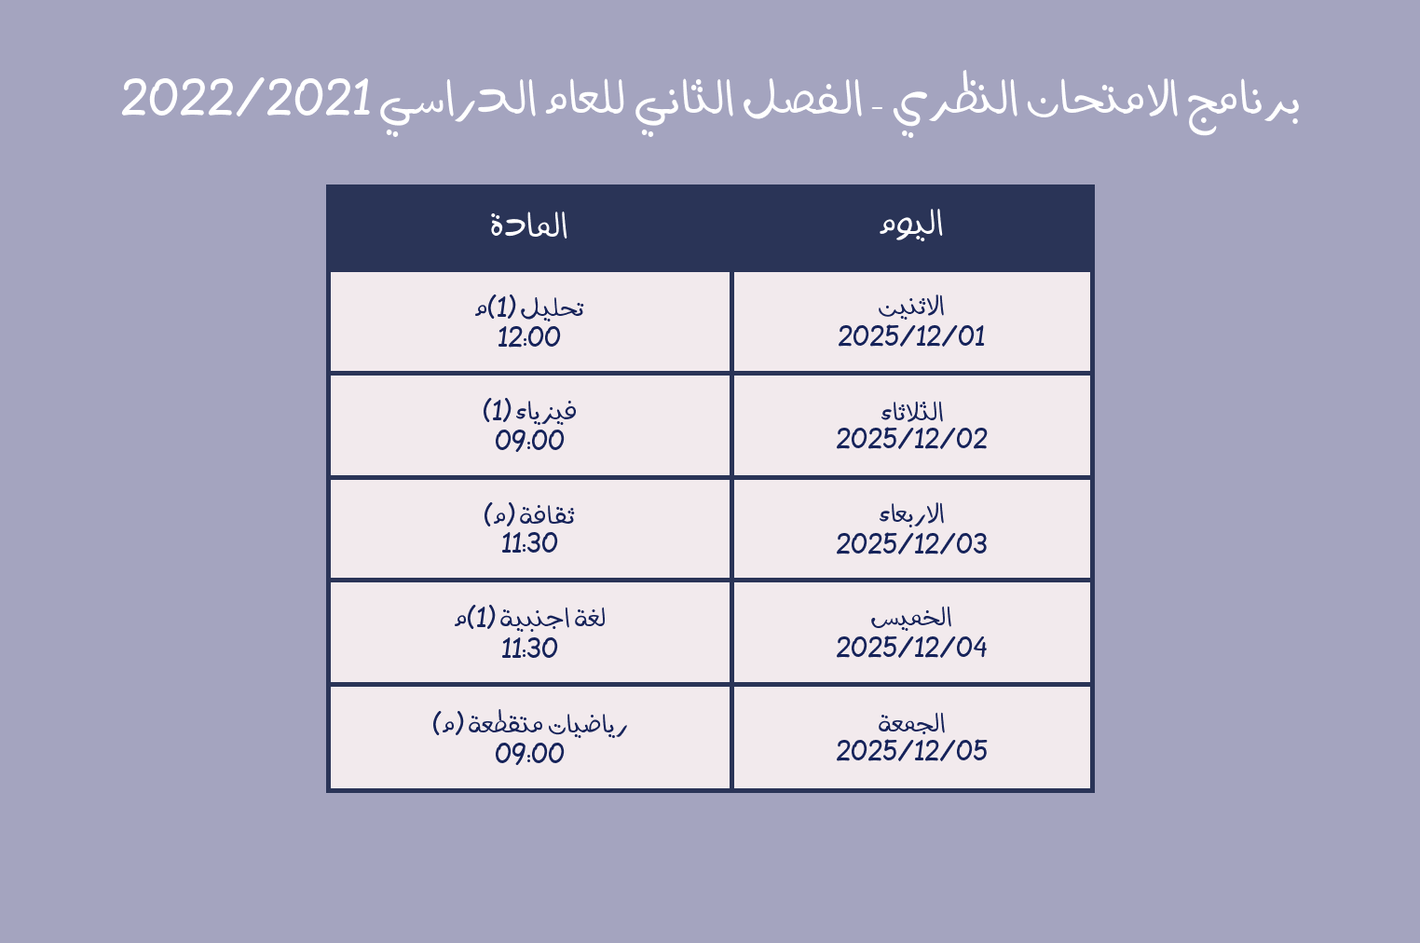
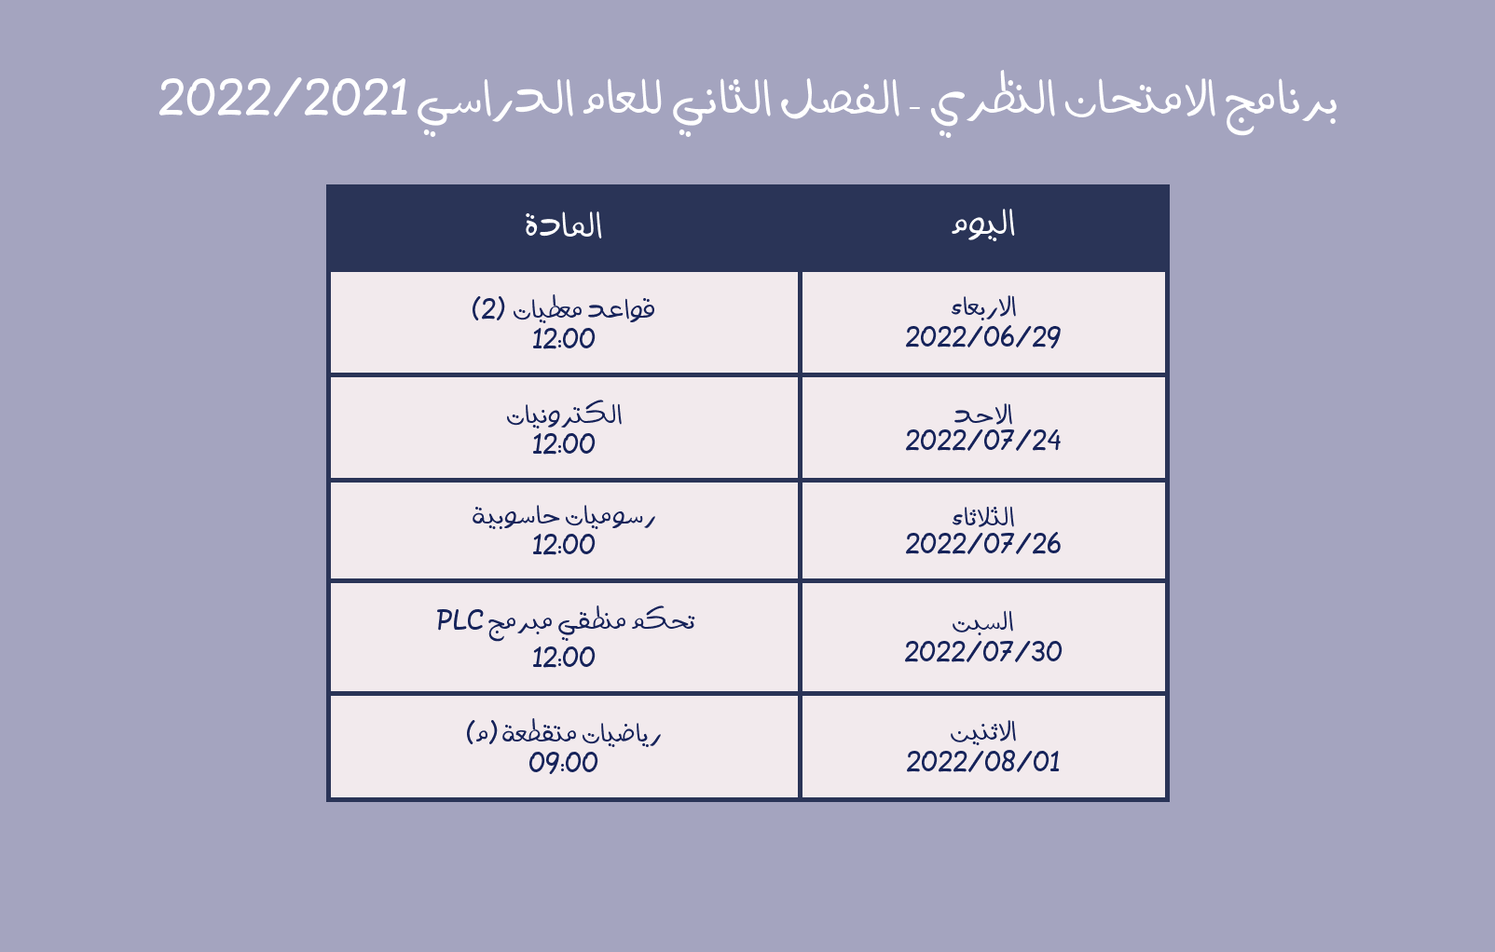
main

diff --git a/structure/schedule.php b/structure/schedule.php
@@ -1,96 +1,111 @@
 <?php
 
-$data[]=array("name2"=>"تحليل (1)م","name"=>"تحليل (1)م", "time"=>3, "year"=>1,"date"=>"2022/1/16") ;
-$data[]=array("name2"=>"فيزياء (1)","name"=>"فيزياء (1)", "time"=>1, "year"=>1,"date"=>"2022/1/20") ;
-$data[]=array("name2"=>"ثقافة (م)","name"=>"ثقافة (م)", "time"=>2, "year"=>1,"date"=>"2022/2/1");
-$data[]=array("name2"=>"لغة اجنبية (1)م","name"=>"لغة اجنبية (1)م", "time"=>2, "year"=>1,"date"=>"2022/2/8");
-$data[]=array("name2"=>"رياضيات متقطعة (م)","name"=>"رياضيات متقطعة (م)", "time"=>1, "year"=>1,"date"=>"2022/2/13");
-$data[]=array("name2"=>"برمجة (1)م","name"=>"برمجة (1)م", "time"=>1, "year"=>1,"date"=>"2022/2/20");
-$data[]=array("name2"=>"مبادئ عمل الحواسيب (م)","name"=>"مبادئ عمل الحواسيب (م)", "time"=>1, "year"=>1,"date"=>"2022/2/24");
-$data[]=array("name2"=>"فيزياء (2)م","name"=>"فيزياء (2)م", "time"=>1, "year"=>1,"date"=>"2022/1/18") ;
-$data[]=array("name2"=>"جبر خطي","name"=>"جبر خطي", "time"=>1, "year"=>1,"date"=>"2022/1/31");
-$data[]=array("name2"=>"دارات كهربائية","name"=>"دارات كهربائية", "time"=>1, "year"=>1,"date"=>"2022/2/6");
-$data[]=array("name2"=>"تحليل (2)م","name"=>"تحليل (2)م", "time"=>1, "year"=>1,"date"=>"2022/2/9");
-$data[]=array("name2"=>"لغة عربية","name"=>"لغة عربية", "time"=>1, "year"=>1,"date"=>"2022/2/14");
-$data[]=array("name2"=>"لغة اجنبية (2)م","name"=>"لغة اجنبية (2)م", "time"=>2, "year"=>1,"date"=>"2022/2/15");
-$data[]=array("name2"=>"برمجة (2)","name"=>"برمجة (2)", "time"=>1, "year"=>1,"date"=>"2022/2/22");
-
-$data[]=array("name2"=>"احتمالات (م)","name"=>"احتمالات (م)", "time"=>3, "year"=>2,"date"=>"2022/1/17") ;
-$data[]=array("name2"=>"تحليل عددي (1)","name"=>"تحليل عددي (1)", "time"=>3, "year"=>2,"date"=>"2022/1/30");
-$data[]=array("name2"=>"برمجة رياضية","name"=>"برمجة رياضية", "time"=>3, "year"=>2,"date"=>"2022/2/3");
-$data[]=array("name2"=>"برمجة (3)","name"=>"برمجة (3)", "time"=>3, "year"=>2,"date"=>"2022/2/10");
-$data[]=array("name2"=>"الكترونيات","name"=>"الكترونيات", "time"=>3, "year"=>2,"date"=>"2022/2/17");
-$data[]=array("name2"=>"لغة اجنبية (3)م","name"=>"لغة اجنبية (3)م", "time"=>3, "year"=>2,"date"=>"2022/2/19");
-$data[]=array("name2"=>"تحليل (3)م","name"=>"تحليل (3)م", "time"=>3, "year"=>2,"date"=>"2022/2/24");
-$data[]=array("name2"=>"لغة اجنبية (4)م","name"=>"لغة اجنبية (4)م", "time"=>3, "year"=>2,"date"=>"2022/1/18") ;
-$data[]=array("name2"=>"تحليل (4)م","name"=>"تحليل (4)م", "time"=>3, "year"=>2,"date"=>"2022/1/19") ;
-$data[]=array("name2"=>"خوارزميات (1)","name"=>"خوارزميات (1)", "time"=>4, "year"=>2,"date"=>"2022/2/1");
-$data[]=array("name2"=>"تحليل عددي (2)","name"=>"تحليل عددي (2)", "time"=>3, "year"=>2,"date"=>"2022/2/6");
-$data[]=array("name2"=>"نظم ودارات منطقية","name"=>"نظم ودارات منطقية", "time"=>3, "year"=>2,"date"=>"2022/2/12");
-$data[]=array("name2"=>"مهارات تواصل (م)", "name"=>"مهارات تواصل (م)", "time"=>3, "year"=>2,"date"=>"2022/2/13");
-$data[]=array("name2"=>"احصاء (م)","name"=>"احصاء (م)", "time"=>3, "year"=>2,"date"=>"2022/2/16");
-
-$data[]=array("name2"=>"خوارزميات (2)","name"=>"خوارزميات (2)", "time"=>1, "year"=>3,"date"=>"2022/1/16") ;
-$data[]=array("name2"=>"معالج مصغر","name"=>"معالج مصغر", "time"=>1, "year"=>3,"date"=>"2022/1/30");
-$data[]=array("name2"=>"معالجة اشارة","name"=>"معالجة اشارة", "time"=>1, "year"=>3,"date"=>"2022/2/3");
-$data[]=array("name2"=>"قواعد معطيات  (1)","name"=>"قواعد معطيات  (1)", "time"=>1, "year"=>3,"date"=>"2022/2/8");
-$data[]=array("name2"=>"رسوميات حاسوبية","name"=>"رسوميات حاسوبية", "time"=>1, "year"=>3,"date"=>"2022/2/14");
-$data[]=array("name2"=>"نظرية معلومات","name"=>"نظرية معلومات", "time"=>1, "year"=>3,"date"=>"2022/2/23");
-$data[]=array("name2"=>"نظرية المخططات","name"=>"نظرية المخططات", "time"=>3, "year"=>3,"date"=>"2022/2/20");
-$data[]=array("name2"=>"شبكات حاسوبية","name"=>"شبكات حاسوبية", "time"=>3, "year"=>3,"date"=>"2022/1/20") ;
-$data[]=array("name2"=>"بنية وتنظيم الحاسب (1)","name"=>"بنية وتنظيم الحاسب (1)", "time"=>1, "year"=>3,"date"=>"2022/2/1");
-$data[]=array("name2"=>"هندسة برمجيات (1)","name"=>"هندسة برمجيات (1)", "time"=>1, "year"=>3,"date"=>"2022/2/5");
-$data[]=array("name2"=>"اتصالات تشابهية ورقمية","name"=>"اتصالات تشابهية ورقمية", "time"=>1, "year"=>3,"date"=>"2022/2/7");
-$data[]=array("name2"=>"لغات صورية","name"=>"لغات صورية", "time"=>3, "year"=>3,"date"=>"2022/2/13");
-$data[]=array("name2"=>"مبادئ الذكاء الصنعي","name"=>"مبادئ الذكاء الصنعي", "time"=>1, "year"=>3,"date"=>"2022/2/16");
-$data[]=array("name2"=>"خوارزميات (3)","name"=>"خوارزميات (3)", "time"=>3, "year"=>3,"date"=>"2022/2/21");
-
-$data[]=array("name2"=>"نظم وسائط متعددة", "name"=>"نظم وسائط متعددة", "time"=>3, "year"=>4,"date"=>"2022/1/18") ;
-$data[]=array("name2"=>"تسويق وادارة مشاريع (م)","name"=>"تسويق وادارة مشاريع (م)", "time"=>3, "year"=>4,"date"=>"2022/1/31");
-$data[]=array("name2"=>"روبوتية","name"=>"روبوتية", "time"=>4, "year"=>4,"date"=>"2022/2/1");
-$data[]=array("name2"=>"بحوث عمليات","name"=>"بحوث عمليات", "time"=>3, "year"=>4,"date"=>"2022/2/7");
-$data[]=array("name2"=>"هندسة برمجيات (2)","name"=>"هندسة برمجيات (2)", "time"=>3, "year"=>4,"date"=>"2022/2/8");
-$data[]=array("name2"=>"نظم تشغيل (2)","name"=>"نظم تشغيل (2)", "time"=>3, "year"=>4,"date"=>"2022/2/13");
-$data[]=array("name2"=>"شبكات عصبونية","name"=>"شبكات عصبونية", "time"=>1, "year"=>4,"date"=>"2022/2/17");
-$data[]=array("name2"=>"أمن المعلومات","name"=>"أمن المعلومات", "time"=>1, "year"=>4,"date"=>"2022/2/21");
-
-$data[]=array("name2"=>"نظم تشغيل (1)","name"=>"نظم تشغيل (1)", "time"=>1, "year"=>4,"date"=>"2022/1/17") ;
-$data[]=array("name2"=>"بنية وتنظيم الحاسب (2)","name"=>"بنية وتنظيم الحاسب (2)", "time"=>3, "year"=>4,"date"=>"2022/1/22") ;
-$data[]=array("name2"=>"نظم رقمية مبرمجة","name"=>"نظم رقمية مبرمجة", "time"=>3, "year"=>4,"date"=>"2022/2/2");
-$data[]=array("name2"=>"تصميم مترجمات","name"=>"تصميم مترجمات", "time"=>1, "year"=>4,"date"=>"2022/2/10");
-$data[]=array("name2"=>"برمجة منطقية","name"=>"برمجة منطقية", "time"=>1, "year"=>4,"date"=>"2022/2/15");
-$data[]=array("name2"=>"قواعد معطيات  (2)","name"=>"قواعد معطيات  (2)", "time"=>1, "year"=>4,"date"=>"2022/2/15");
-$data[]=array("name2"=>"شبكات حاسوبية متقدمة","name"=>"شبكات حاسوبية متقدمة", "time"=>1, "year"=>4,"date"=>"2022/2/15");
-$data[]=array("name2"=>"نظرية الارتال","name"=>"نظرية الارتال", "time"=>4, "year"=>4,"date"=>"2022/2/24");
-$data[]=array("name2"=>"برمجة تفرعية","name"=>"برمجة تفرعية", "time"=>1, "year"=>4,"date"=>"2022/2/19");
+// سنة أولى فصل أول 
+$data[]=array("name2"=>"تحليل (1)م","name"=>"تحليل (1)م", "time"=>1, "year"=>1,"date"=>"2022/7/23") ;
+$data[]=array("name2"=>"فيزياء (1)","name"=>"فيزياء (1)", "time"=>1, "year"=>1,"date"=>"2022/7/18") ;
+$data[]=array("name2"=>"ثقافة (م)","name"=>"ثقافة (م)", "time"=>2, "year"=>1,"date"=>"2022/7/5");
+$data[]=array("name2"=>"لغة اجنبية (1)م","name"=>"لغة اجنبية (1)م", "time"=>2, "year"=>1,"date"=>"2022/6/28");
+$data[]=array("name2"=>"رياضيات متقطعة (م)","name"=>"رياضيات متقطعة (م)", "time"=>1, "year"=>1,"date"=>"2022/8/1");
+$data[]=array("name2"=>"برمجة (1)م","name"=>"برمجة (1)م", "time"=>1, "year"=>1,"date"=>"2022/7/6");
+$data[]=array("name2"=>"مبادئ عمل الحواسيب (م)","name"=>"مبادئ عمل الحواسيب (م)", "time"=>1, "year"=>1,"date"=>"2022/7/2");
+// سنة أولى فصل ثاني 
+$data[]=array("name2"=>"فيزياء (2)م","name"=>"فيزياء (2)م", "time"=>1, "year"=>1,"date"=>"2022/7/3") ;
+$data[]=array("name2"=>"جبر خطي","name"=>"جبر خطي", "time"=>1, "year"=>1,"date"=>"2022/8/4");
+$data[]=array("name2"=>"دارات كهربائية","name"=>"دارات كهربائية", "time"=>1, "year"=>1,"date"=>"2022/7/26");
+$data[]=array("name2"=>"تحليل (2)م","name"=>"تحليل (2)م", "time"=>1, "year"=>1,"date"=>"2022/6/26");
+$data[]=array("name2"=>"لغة عربية","name"=>"لغة عربية", "time"=>1, "year"=>1,"date"=>"2022/7/31");
+$data[]=array("name2"=>"لغة اجنبية (2)م","name"=>"لغة اجنبية (2)م", "time"=>2, "year"=>1,"date"=>"2022/7/19");
+$data[]=array("name2"=>"برمجة (2)","name"=>"برمجة (2)", "time"=>3, "year"=>1,"date"=>"2022/7/16");
 
 
-$data[]=array("name2"=>"شبكات لاسلكية","name"=>"شبكات لاسلكية", "time"=>3, "year"=>5,"date"=>"2022/1/20") ;
-$data[]=array("name2"=>"ادارة نظم انتاجية","name"=>"ادارة نظم انتاجية", "time"=>1, "year"=>5,"date"=>"2022/2/1");
-$data[]=array("name2"=>"معالجة لغات طبيعية","name"=>"معالجة لغات طبيعية", "time"=>1, "year"=>5,"date"=>"2022/2/8");
-$data[]=array("name2"=>"نظم الزمن الحقيقي","name"=>"نظم الزمن الحقيقي", "time"=>3, "year"=>5,"date"=>"2022/2/12");
-$data[]=array("name2"=>"تنقيب المعطيات","name"=>"تنقيب المعطيات", "time"=>3, "year"=>5,"date"=>"2022/2/16");
+// سنة ثانية فصل أول 
+$data[]=array("name2"=>"احتمالات (م)","name"=>"احتمالات (م)", "time"=>3, "year"=>2,"date"=>"2022/7/4") ;
+$data[]=array("name2"=>"تحليل عددي (1)","name"=>"تحليل عددي (1)", "time"=>1, "year"=>2,"date"=>"2022/7/25");
+$data[]=array("name2"=>"برمجة رياضية","name"=>"برمجة رياضية", "time"=>1, "year"=>2,"date"=>"2022/7/21");
+$data[]=array("name2"=>"برمجة (3)","name"=>"برمجة (3)", "time"=>1, "year"=>2,"date"=>"2022/7/30");
+$data[]=array("name2"=>"الكترونيات","name"=>"الكترونيات", "time"=>3, "year"=>2,"date"=>"2022/7/24");
+$data[]=array("name2"=>"لغة اجنبية (3)م","name"=>"لغة اجنبية (3)م", "time"=>1, "year"=>2,"date"=>"2022/6/28");
+$data[]=array("name2"=>"تحليل (3)م","name"=>"تحليل (3)م", "time"=>1, "year"=>2,"date"=>"2022/7/19");
+// سنة ثانية فصل ثاني
+$data[]=array("name2"=>"لغة اجنبية (4)م","name"=>"لغة اجنبية (4)م", "time"=>1, "year"=>2,"date"=>"2022/6/30") ;
+$data[]=array("name2"=>"تحليل (4)م","name"=>"تحليل (4)م", "time"=>3, "year"=>2,"date"=>"2022/7/17") ;
+$data[]=array("name2"=>"خوارزميات (1)","name"=>"خوارزميات (1)", "time"=>3, "year"=>2,"date"=>"2022/6/27");
+$data[]=array("name2"=>"تحليل عددي (2)","name"=>"تحليل عددي (2)", "time"=>3, "year"=>2,"date"=>"2022/8/1");
+$data[]=array("name2"=>"نظم ودارات منطقية","name"=>"نظم ودارات منطقية", "time"=>3, "year"=>2,"date"=>"2022/7/27");
+$data[]=array("name2"=>"مهارات تواصل (م)", "name"=>"مهارات تواصل (م)", "time"=>5, "year"=>2,"date"=>"2022/8/4");
+$data[]=array("name2"=>"احصاء (م)","name"=>"احصاء (م)", "time"=>3, "year"=>2,"date"=>"2022/7/6");
 
-$data[]=array("name2"=>"نظم موزعة","name"=>"نظم موزعة", "time"=>4, "year"=>5,"date"=>"2022/1/16") ;
-$data[]=array("name2"=>"نظم خبيرة","name"=>"نظم خبيرة", "time"=>4, "year"=>5,"date"=>"2022/1/16") ;
-$data[]=array("name2"=>"نمذجة ومحاكاة","name"=>"نمذجة ومحاكاة", "time"=>3, "year"=>5,"date"=>"2022/1/30");
-$data[]=array("name2"=>"تحكم منطقي مبرمج PLC","name"=>"تحكم منطقي مبرمج PLC", "time"=>3, "year"=>5,"date"=>"2022/2/5");
-$data[]=array("name2"=>"جودة ووثوقية","name"=>"جودة ووثوقية", "time"=>3, "year"=>5,"date"=>"2022/2/14");
-$data[]=array("name2"=>"أمن الشبكات","name"=>"أمن الشبكات", "time"=>3, "year"=>5,"date"=>"2022/2/23");
-$data[]=array("name2"=>"رؤية حاسوبية","name"=>"رؤية حاسوبية", "time"=>3, "year"=>5,"date"=>"2022/2/23");
-$data[]=array("name2"=>"هندسة برمجيات (3)","name"=>"هندسة برمجيات (3)", "time"=>3, "year"=>5,"date"=>"2022/2/23");
+
+// سنة ثالثة فصل أول
+$data[]=array("name2"=>"خوارزميات (2)","name"=>"خوارزميات (2)", "time"=>3, "year"=>3,"date"=>"2022/7/18");
+$data[]=array("name2"=>"معالج مصغر","name"=>"معالج مصغر", "time"=>1, "year"=>3,"date"=>"2022/8/1");
+$data[]=array("name2"=>"معالجة اشارة","name"=>"معالجة اشارة", "time"=>1, "year"=>3,"date"=>"2022/7/2");
+$data[]=array("name2"=>"قواعد معطيات  (1)","name"=>"قواعد معطيات  (1)", "time"=>1, "year"=>3,"date"=>"2022/7/4");
+$data[]=array("name2"=>"رسوميات حاسوبية","name"=>"رسوميات حاسوبية", "time"=>3, "year"=>3,"date"=>"2022/7/26");
+$data[]=array("name2"=>"نظرية معلومات","name"=>"نظرية معلومات", "time"=>2, "year"=>3,"date"=>"2022/6/28");
+$data[]=array("name2"=>"نظرية المخططات","name"=>"نظرية المخططات", "time"=>3, "year"=>3,"date"=>"2022/7/20");
+// سنة ثالثة فصل ثاني
+$data[]=array("name2"=>"شبكات حاسوبية","name"=>"شبكات حاسوبية", "time"=>3, "year"=>3,"date"=>"2022/6/26");
+$data[]=array("name2"=>"بنية وتنظيم الحاسب (1)","name"=>"بنية وتنظيم الحاسب (1)", "time"=>3, "year"=>3,"date"=>"2022/6/30");
+$data[]=array("name2"=>"هندسة برمجيات (1)","name"=>"هندسة برمجيات (1)", "time"=>1, "year"=>3,"date"=>"2022/8/3");
+$data[]=array("name2"=>"اتصالات تشابهية ورقمية","name"=>"اتصالات تشابهية ورقمية", "time"=>1, "year"=>3,"date"=>"2022/7/16");
+$data[]=array("name2"=>"لغات صورية","name"=>"لغات صورية", "time"=>3, "year"=>3,"date"=>"2022/7/28");
+$data[]=array("name2"=>"مبادئ الذكاء الصنعي","name"=>"مبادئ الذكاء الصنعي", "time"=>3, "year"=>3,"date"=>"2022/7/23");
+$data[]=array("name2"=>"خوارزميات (3)","name"=>"خوارزميات (3)", "time"=>1, "year"=>3,"date"=>"2022/7/5");
+
+
+// سنة رابعة فصل أول
+$data[]=array("name2"=>"نظم تشغيل (1)","name"=>"نظم تشغيل (1)", "time"=>1, "year"=>4,"date"=>"2022/7/18") ;
+$data[]=array("name2"=>"بنية وتنظيم الحاسب (2)","name"=>"بنية وتنظيم الحاسب (2)", "time"=>3, "year"=>4,"date"=>"2022/7/25") ;
+$data[]=array("name2"=>"نظم رقمية مبرمجة","name"=>"نظم رقمية مبرمجة", "time"=>1, "year"=>4,"date"=>"2022/7/23");
+$data[]=array("name2"=>"تصميم مترجمات","name"=>"تصميم مترجمات", "time"=>5, "year"=>4,"date"=>"2022/6/26");
+$data[]=array("name2"=>"برمجة منطقية","name"=>"برمجة منطقية", "time"=>3, "year"=>4,"date"=>"2022/6/29");
+$data[]=array("name2"=>"قواعد معطيات  (2)","name"=>"قواعد معطيات  (2)", "time"=>3, "year"=>4,"date"=>"2022/6/29");
+$data[]=array("name2"=>"شبكات حاسوبية متقدمة","name"=>"شبكات حاسوبية متقدمة", "time"=>3, "year"=>4,"date"=>"2022/6/29");
+$data[]=array("name2"=>"نظرية الارتال","name"=>"نظرية الارتال", "time"=>1, "year"=>4,"date"=>"2022/7/27");
+$data[]=array("name2"=>"برمجة تفرعية","name"=>"برمجة تفرعية", "time"=>3, "year"=>4,"date"=>"2022/7/2");
+// سنة رابعة فصل ثاني
+$data[]=array("name2"=>"نظم وسائط متعددة", "name"=>"نظم وسائط متعددة", "time"=>3, "year"=>4,"date"=>"2022/8/4") ;
+$data[]=array("name2"=>"تسويق وادارة مشاريع (م)","name"=>"تسويق وادارة مشاريع (م)", "time"=>1, "year"=>4,"date"=>"2022/7/20");
+$data[]=array("name2"=>"روبوتية","name"=>"روبوتية", "time"=>3, "year"=>4,"date"=>"2022/7/4");
+$data[]=array("name2"=>"بحوث عمليات","name"=>"بحوث عمليات", "time"=>1, "year"=>4,"date"=>"2022/7/6");
+$data[]=array("name2"=>"هندسة برمجيات (2)","name"=>"هندسة برمجيات (2)", "time"=>3, "year"=>4,"date"=>"2022/7/31");
+$data[]=array("name2"=>"نظم تشغيل (2)","name"=>"نظم تشغيل (2)", "time"=>6, "year"=>4,"date"=>"2022/7/16");
+$data[]=array("name2"=>"شبكات عصبونية","name"=>"شبكات عصبونية", "time"=>1, "year"=>4,"date"=>"2022/7/28");
+$data[]=array("name2"=>"أمن المعلومات","name"=>"أمن المعلومات", "time"=>1, "year"=>4,"date"=>"2022/6/27");
+
+
+
+// سنة خامسة فصل أول
+$data[]=array("name2"=>"نظم موزعة","name"=>"نظم موزعة", "time"=>1, "year"=>5,"date"=>"2022/7/17") ;
+$data[]=array("name2"=>"نظم خبيرة","name"=>"نظم خبيرة", "time"=>1, "year"=>5,"date"=>"2022/7/17") ;
+$data[]=array("name2"=>"نمذجة ومحاكاة","name"=>"نمذجة ومحاكاة", "time"=>3, "year"=>5,"date"=>"2022/6/30");
+$data[]=array("name2"=>"تحكم منطقي مبرمج PLC","name"=>"تحكم منطقي مبرمج PLC", "time"=>3, "year"=>5,"date"=>"2022/7/30");
+$data[]=array("name2"=>"جودة ووثوقية","name"=>"جودة ووثوقية", "time"=>3, "year"=>5,"date"=>"2022/7/21");
+$data[]=array("name2"=>"أمن الشبكات","name"=>"أمن الشبكات", "time"=>1, "year"=>5,"date"=>"2022/7/24");
+$data[]=array("name2"=>"رؤية حاسوبية","name"=>"رؤية حاسوبية", "time"=>1, "year"=>5,"date"=>"2022/7/24");
+$data[]=array("name2"=>"هندسة برمجيات (3)","name"=>"هندسة برمجيات (3)", "time"=>1, "year"=>5,"date"=>"2022/7/24");
+
+// سنة خامسة فصل ثاني
+$data[]=array("name2"=>"شبكات لاسلكية","name"=>"شبكات لاسلكية", "time"=>3, "year"=>5,"date"=>"2022/7/6") ;
+$data[]=array("name2"=>"ادارة نظم انتاجية","name"=>"ادارة نظم انتاجية", "time"=>3, "year"=>5,"date"=>"2022/8/3");
+$data[]=array("name2"=>"معالجة لغات طبيعية","name"=>"معالجة لغات طبيعية", "time"=>1, "year"=>5,"date"=>"2022/7/19");
+$data[]=array("name2"=>"نظم الزمن الحقيقي","name"=>"نظم الزمن الحقيقي", "time"=>6, "year"=>5,"date"=>"2022/6/27");
+$data[]=array("name2"=>"تنقيب المعطيات","name"=>"تنقيب المعطيات", "time"=>3, "year"=>5,"date"=>"2022/7/26");
 
 $data[]=array("name2"=>"نهاية البرنامج","name"=>"نهاية البرنامج", "time"=>1, "year"=>6,"date"=>"2000/1/1");
 
 
-
-$startdate="2022/1/16";
-$enddate="2022/2/24";
+$startdate="2022/6/26";
+$enddate="2022/8/4";
 
 $period[1]="09:00";
 $period[2]="11:30";
 $period[3]="12:00";
 $period[4]="02:00";
+$period[5]="03:00";
+$period[6]="02:30";
+
 $dayweek[]="الاحد";
 $dayweek[]="الاثنين";
 $dayweek[]="الثلاثاء";

diff --git a/index.php b/index.php
@@ -32,11 +32,13 @@
             <!-- Slideshow container -->
             <div class='slideshow-container'>";
 
-        slideshow_con("5 / 1","ex1","اللون الأزرق (الجديد) + الخط رقم 2 (Bold)");
-        slideshow_con("5 / 2","ex2","اللون التركوازي + الخط رقم 2 (Light)");
-        slideshow_con("5 / 3","ex3","اللون الأزرق (قديم) + الخط رقم 1 (Regular)");
-        slideshow_con("5 / 4","ex4","اللون البنفسجي + الخط رقم 3 (Light)");
-        slideshow_con("5 / 5","ex5","اللون الفستقي + الخط رقم 3 (Bold)");
+        slideshow_con("7 / 1","ex1","اللون الأزرق (الجديد) + الخط رقم 2 (Bold)");
+        slideshow_con("7 / 2","ex2","اللون التركوازي + الخط رقم 2 (Light)");
+        slideshow_con("7 / 3","ex3","اللون الأزرق (قديم) + الخط رقم 1 (Regular)");
+        slideshow_con("7 / 4","ex4","اللون البنفسجي + الخط رقم 3 (Light)");
+        slideshow_con("7 / 5","ex5","اللون الفستقي + الخط رقم 3 (Bold)");
+        slideshow_con("7 / 6","ex6","اللون الأحضر (جديد) + الخط رقم 4");
+        slideshow_con("7 / 7","ex7","اللون الأحمر + الخط رقم 5");
 
         echo "
             <a class='prev' onclick='plusSlides(-1)'>&#10094;</a>
